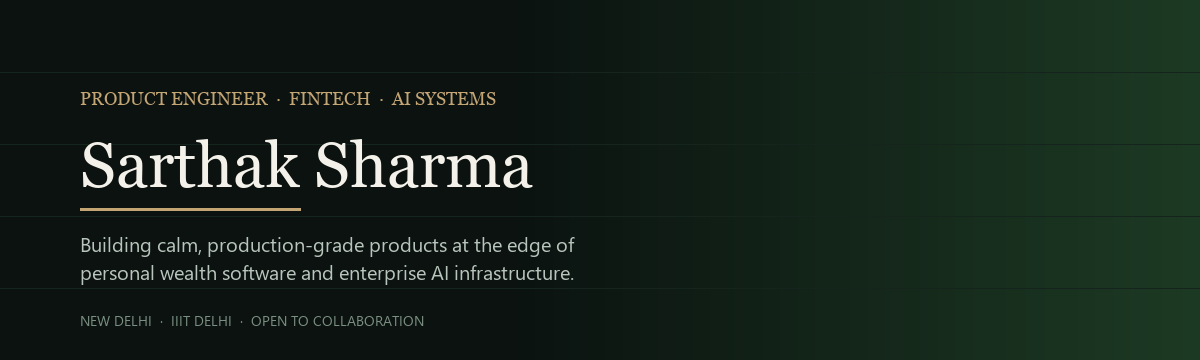
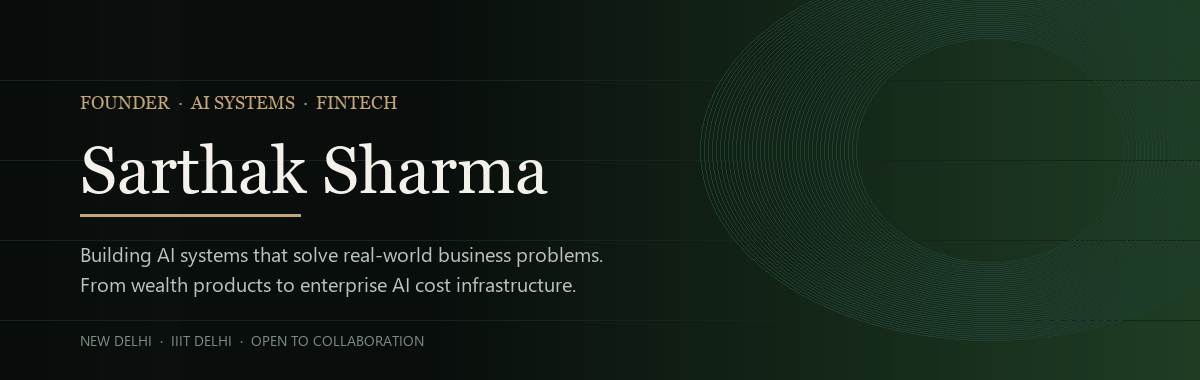
Rebrand as Founder and wrap profile README in a dark canvas.

diff --git a/README.md b/README.md
@@ -1,144 +1,151 @@
-<div align="center">
-
-  <img src="https://raw.githubusercontent.com/MT23083/MT23083/main/assets/banner.png" alt="Sarthak Sharma — Product Engineer" width="100%" />
-
-  <br/>
-
-  <img src="https://readme-typing-svg.demolab.com?font=Georgia&weight=600&size=22&duration=3500&pause=900&color=C4A574&center=true&vCenter=true&width=720&lines=Fintech+%26+wealth+product+engineering;Enterprise+AI+cost+systems;Android+%2F+Flutter+%2B+TypeScript+fullstack;Research+published+at+Interspeech+2024" alt="Roles" />
-
-  <br/><br/>
-
-  <a href="mailto:sarthak23083@iiitd.ac.in"><img src="https://img.shields.io/badge/Email-0B1210?style=flat-square&logo=gmail&logoColor=C4A574" alt="Email" /></a>
-  &nbsp;
-  <a href="https://www.linkedin.com/in/sarthak-sharma-5222b418b/"><img src="https://img.shields.io/badge/LinkedIn-0B1210?style=flat-square&logo=linkedin&logoColor=C4A574" alt="LinkedIn" /></a>
-  &nbsp;
-  <a href="https://github.com/MT23083"><img src="https://img.shields.io/badge/GitHub-0B1210?style=flat-square&logo=github&logoColor=C4A574" alt="GitHub" /></a>
-  &nbsp;
-  <a href="https://arxiv.org/abs/2406.10448v1"><img src="https://img.shields.io/badge/arXiv-2406.10448-0B1210?style=flat-square&logo=arxiv&logoColor=C4A574" alt="arXiv" /></a>
-
-</div>
-
-<br/>
-
----
-
-### About
-
-Building AI systems that solve real-world business problems.
-
-Focused on AI cost optimization, LLM applications, machine learning, cloud infrastructure, and scalable software engineering. Passionate about developing production-ready solutions that improve efficiency, reduce operational costs, and create measurable business impact.
-
-Always exploring new technologies in artificial intelligence, distributed systems, and automation.
-
-<br/>
-
----
-
-### Featured work
-
-<table>
+<table width="100%" bgcolor="#0B1210" border="0" cellpadding="28" cellspacing="0">
   <tr>
-    <td width="50%" valign="top">
+    <td bgcolor="#0B1210" align="center">
+
+<img src="https://raw.githubusercontent.com/MT23083/MT23083/main/assets/banner.png" alt="Sarthak Sharma, Founder" width="100%" />
+
+<br/>
+
+<img src="https://readme-typing-svg.demolab.com?font=Georgia&weight=600&size=22&duration=3500&pause=900&color=C4A574&center=true&vCenter=true&width=780&lines=Founder+building+AI+systems;AI+cost+optimization+%26+LLM+applications;Wealth+products+%26+cloud+infrastructure;Research+published+at+Interspeech+2024" alt="Roles" />
+
+<br/><br/>
+
+<a href="mailto:sarthak23083@iiitd.ac.in"><img src="https://img.shields.io/badge/Email-13201A?style=flat-square&logo=gmail&logoColor=C4A574" alt="Email" /></a>
+&nbsp;
+<a href="https://www.linkedin.com/in/sarthak-sharma-5222b418b/"><img src="https://img.shields.io/badge/LinkedIn-13201A?style=flat-square&logo=linkedin&logoColor=C4A574" alt="LinkedIn" /></a>
+&nbsp;
+<a href="https://github.com/MT23083"><img src="https://img.shields.io/badge/GitHub-13201A?style=flat-square&logo=github&logoColor=C4A574" alt="GitHub" /></a>
+&nbsp;
+<a href="https://arxiv.org/abs/2406.10448v1"><img src="https://img.shields.io/badge/arXiv-2406.10448-13201A?style=flat-square&logo=arxiv&logoColor=C4A574" alt="arXiv" /></a>
+
+<br/><br/>
+<img src="https://raw.githubusercontent.com/MT23083/MT23083/main/assets/divider.png" width="100%" alt="" />
+<br/>
+<img src="https://raw.githubusercontent.com/MT23083/MT23083/main/assets/section-about.png" width="100%" alt="About" />
+
+<p align="left">
+<font color="#D7E0DA" size="3">
+Building AI systems that solve real-world business problems.
+</font>
+</p>
+
+<p align="left">
+<font color="#B8C5BC" size="3">
+Focused on AI cost optimization, LLM applications, machine learning, cloud infrastructure, and scalable software engineering. Passionate about developing production-ready solutions that improve efficiency, reduce operational costs, and create measurable business impact.
+</font>
+</p>
+
+<p align="left">
+<font color="#B8C5BC" size="3">
+Always exploring new technologies in artificial intelligence, distributed systems, and automation.
+</font>
+</p>
+
+<br/>
+<img src="https://raw.githubusercontent.com/MT23083/MT23083/main/assets/divider.png" width="100%" alt="" />
+<br/>
+<img src="https://raw.githubusercontent.com/MT23083/MT23083/main/assets/section-featured.png" width="100%" alt="Featured work" />
+
+<table width="100%" bgcolor="#0B1210" border="0" cellpadding="10" cellspacing="0">
+  <tr>
+    <td width="50%" valign="top" bgcolor="#0B1210">
       <a href="https://github.com/MT23083/SAVYA">
         <img src="https://raw.githubusercontent.com/MT23083/MT23083/main/assets/card-savya.png" alt="SAVYA" width="100%" />
       </a>
       <p>
-        <a href="https://github.com/MT23083/SAVYA"><b>SAVYA</b></a><br/>
-        Personal wealth OS for India-first, non-custodial money clarity.
+        <a href="https://github.com/MT23083/SAVYA"><font color="#C4A574" size="4"><b>SAVYA</b></font></a><br/>
+        <font color="#B8C5BC" size="2">Personal wealth OS for India-first, non-custodial money clarity.</font>
       </p>
     </td>
-    <td width="50%" valign="top">
+    <td width="50%" valign="top" bgcolor="#0B1210">
       <a href="https://github.com/MT23083/aethon">
         <img src="https://raw.githubusercontent.com/MT23083/MT23083/main/assets/card-aethon.png" alt="Aethon" width="100%" />
       </a>
       <p>
-        <a href="https://github.com/MT23083/aethon"><b>Aethon</b></a><br/>
-        Enterprise AI cost platform for routing, governance, and spend control.
+        <a href="https://github.com/MT23083/aethon"><font color="#C4A574" size="4"><b>Aethon</b></font></a><br/>
+        <font color="#B8C5BC" size="2">Enterprise AI cost platform for routing, governance, and spend control.</font>
       </p>
     </td>
   </tr>
   <tr>
-    <td width="50%" valign="top">
+    <td width="50%" valign="top" bgcolor="#0B1210">
       <a href="https://github.com/MT23083/TravelVista">
         <img src="https://raw.githubusercontent.com/MT23083/MT23083/main/assets/card-travelvista.png" alt="TravelVista" width="100%" />
       </a>
       <p>
-        <a href="https://github.com/MT23083/TravelVista"><b>TravelVista</b></a><br/>
-        RAG powered travel planning with LLM itinerary generation.
+        <a href="https://github.com/MT23083/TravelVista"><font color="#C4A574" size="4"><b>TravelVista</b></font></a><br/>
+        <font color="#B8C5BC" size="2">RAG powered travel planning with LLM itinerary generation.</font>
       </p>
     </td>
-    <td width="50%" valign="top">
+    <td width="50%" valign="top" bgcolor="#0B1210">
       <a href="https://github.com/MT23083/Multimodal_AVR">
         <img src="https://raw.githubusercontent.com/MT23083/MT23083/main/assets/card-avr.png" alt="AVR" width="100%" />
       </a>
       <p>
-        <a href="https://github.com/MT23083/Multimodal_AVR"><b>AVR</b></a>
-        &nbsp;·&nbsp;
-        <a href="https://arxiv.org/abs/2406.10448v1">Paper</a><br/>
-        Multimodal humor detection research at Interspeech 2024.
+        <a href="https://github.com/MT23083/Multimodal_AVR"><font color="#C4A574" size="4"><b>AVR</b></font></a>
+        &nbsp;&nbsp;
+        <a href="https://arxiv.org/abs/2406.10448v1"><font color="#7A8F82" size="2">Paper</font></a><br/>
+        <font color="#B8C5BC" size="2">Multimodal humor detection research at Interspeech 2024.</font>
       </p>
     </td>
   </tr>
 </table>
 
 <br/>
-
----
-
-### Selected earlier work
+<img src="https://raw.githubusercontent.com/MT23083/MT23083/main/assets/divider.png" width="100%" alt="" />
+<br/>
+<img src="https://raw.githubusercontent.com/MT23083/MT23083/main/assets/section-earlier.png" width="100%" alt="Selected earlier work" />
 
 <p align="center">
-  <a href="https://github.com/MT23083/Estimated_Time_Of_Arrival_Prediction"><img src="https://img.shields.io/badge/ETA%20Prediction-XGBoost%20%2F%20feature%20eng-0B1210?style=flat-square&labelColor=13201A&color=2D6A4F" alt="ETA" /></a>
+  <a href="https://github.com/MT23083/Estimated_Time_Of_Arrival_Prediction"><img src="https://img.shields.io/badge/ETA%20Prediction-XGBoost%20%2F%20feature%20eng-13201A?style=flat-square&labelColor=0B1210&color=2D6A4F" alt="ETA" /></a>
   &nbsp;
-  <a href="https://github.com/MT23083/Parser"><img src="https://img.shields.io/badge/Resume%20Parser-BERT%20%2F%20Flask-0B1210?style=flat-square&labelColor=13201A&color=2D6A4F" alt="Parser" /></a>
+  <a href="https://github.com/MT23083/Parser"><img src="https://img.shields.io/badge/Resume%20Parser-BERT%20%2F%20Flask-13201A?style=flat-square&labelColor=0B1210&color=2D6A4F" alt="Parser" /></a>
   &nbsp;
-  <a href="https://github.com/MT23083/Text_Summarizer"><img src="https://img.shields.io/badge/Text%20Summarizer-T5%20%2F%20GPT--2-0B1210?style=flat-square&labelColor=13201A&color=2D6A4F" alt="Summarizer" /></a>
+  <a href="https://github.com/MT23083/Text_Summarizer"><img src="https://img.shields.io/badge/Text%20Summarizer-T5%20%2F%20GPT--2-13201A?style=flat-square&labelColor=0B1210&color=2D6A4F" alt="Summarizer" /></a>
   &nbsp;
-  <a href="https://github.com/MT23083/Linux_Shell"><img src="https://img.shields.io/badge/Linux%20Shell-C%2B%2B%20systems-0B1210?style=flat-square&labelColor=13201A&color=2D6A4F" alt="Shell" /></a>
+  <a href="https://github.com/MT23083/Linux_Shell"><img src="https://img.shields.io/badge/Linux%20Shell-C%2B%2B%20systems-13201A?style=flat-square&labelColor=0B1210&color=2D6A4F" alt="Shell" /></a>
 </p>
 
 <br/>
+<img src="https://raw.githubusercontent.com/MT23083/MT23083/main/assets/divider.png" width="100%" alt="" />
+<br/>
+<img src="https://raw.githubusercontent.com/MT23083/MT23083/main/assets/section-stack.png" width="100%" alt="Stack" />
 
----
-
-### Stack
-
-```text
-Languages     Dart · TypeScript · Python · Kotlin · C++ · SQL
-Mobile        Flutter · Android · Play Console release tooling
-Web           Next.js · React · Node
-Backend       FastAPI · Supabase · Postgres · Edge functions
-AI / ML       LLM systems · routing & spend control · PyTorch · TensorFlow
-Cloud / Ops   AWS · Docker · CI · India data residency patterns
-Product       Fintech UX · encryption / vault design · RLS · DPDP-aware systems
-```
+<pre><font color="#B8C5BC">
+Languages     Dart  TypeScript  Python  Kotlin  C++  SQL
+Mobile        Flutter  Android  Play Console release tooling
+Web           Next.js  React  Node
+Backend       FastAPI  Supabase  Postgres  Edge functions
+AI / ML       LLM systems  routing and spend control  PyTorch  TensorFlow
+Cloud / Ops   AWS  Docker  CI  India data residency patterns
+Product       Fintech UX  encryption / vault design  RLS  DPDP-aware systems
+</font></pre>
 
 <br/>
-
----
-
-### Snapshot
-
-<div align="center">
-  <img src="https://raw.githubusercontent.com/MT23083/MT23083/main/assets/highlights.png" alt="Selected highlights" width="900" />
-  <br/><br/>
-  <a href="https://github.com/MT23083?tab=followers"><img src="https://img.shields.io/github/followers/MT23083?style=flat-square&label=Followers&labelColor=0B1210&color=2D6A4F" alt="Followers" /></a>
-  &nbsp;
-  <a href="https://github.com/MT23083?tab=repositories"><img src="https://img.shields.io/badge/Public%20repos-15-0B1210?style=flat-square&labelColor=0B1210&color=C4A574" alt="Public repos" /></a>
-  &nbsp;
-  <a href="https://arxiv.org/abs/2406.10448v1"><img src="https://img.shields.io/badge/Research-Interspeech%202024-0B1210?style=flat-square&labelColor=0B1210&color=2D6A4F" alt="Research" /></a>
-</div>
-
+<img src="https://raw.githubusercontent.com/MT23083/MT23083/main/assets/divider.png" width="100%" alt="" />
 <br/>
+<img src="https://raw.githubusercontent.com/MT23083/MT23083/main/assets/section-snapshot.png" width="100%" alt="Snapshot" />
 
----
+<img src="https://raw.githubusercontent.com/MT23083/MT23083/main/assets/highlights.png" alt="Selected highlights" width="900" />
 
-<div align="center">
+<br/><br/>
 
-  <sub>Building carefully. Shipping calmly.</sub>
+<a href="https://github.com/MT23083?tab=followers"><img src="https://img.shields.io/github/followers/MT23083?style=flat-square&label=Followers&labelColor=0B1210&color=2D6A4F" alt="Followers" /></a>
+&nbsp;
+<a href="https://github.com/MT23083?tab=repositories"><img src="https://img.shields.io/badge/Public%20repos-15-0B1210?style=flat-square&labelColor=0B1210&color=C4A574" alt="Public repos" /></a>
+&nbsp;
+<a href="https://arxiv.org/abs/2406.10448v1"><img src="https://img.shields.io/badge/Research-Interspeech%202024-0B1210?style=flat-square&labelColor=0B1210&color=2D6A4F" alt="Research" /></a>
 
-  <br/><br/>
+<br/><br/><br/>
 
-  <img src="https://komarev.com/ghpvc/?username=MT23083&style=flat-square&color=1B4332" alt="Profile views" />
+<font color="#7A8F82" size="2">Building carefully. Shipping calmly.</font>
 
-</div>
+<br/><br/>
+
+<img src="https://komarev.com/ghpvc/?username=MT23083&style=flat-square&color=1B4332" alt="Profile views" />
+
+<br/><br/>
+
+    </td>
+  </tr>
+</table>
